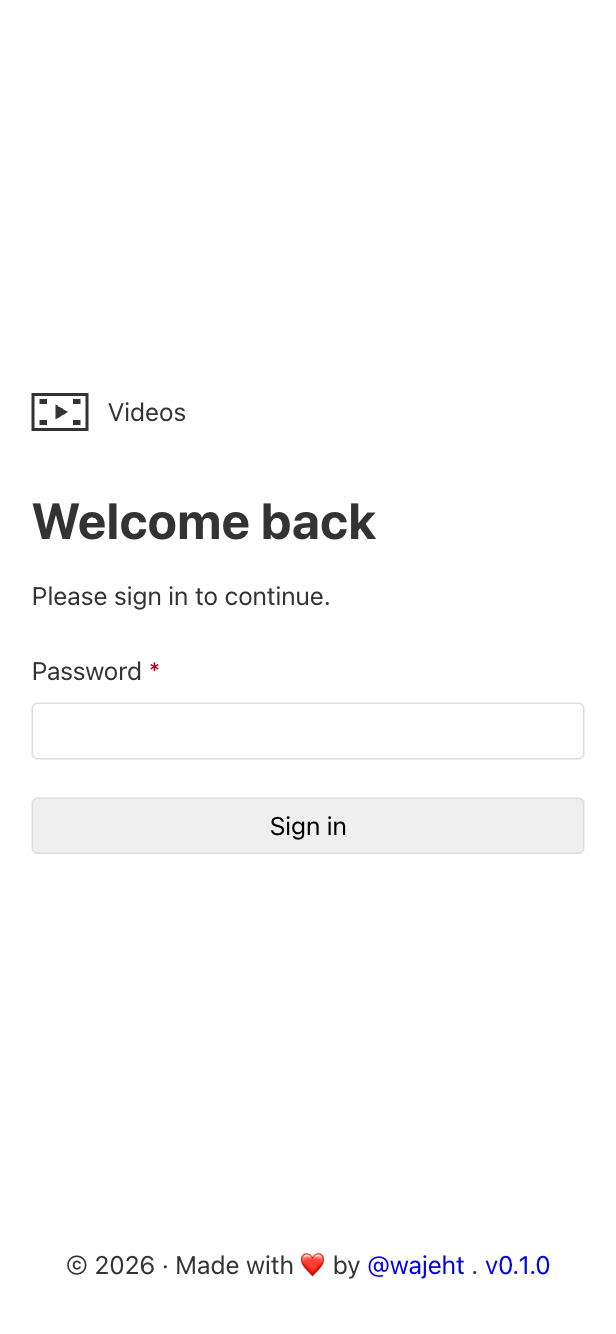
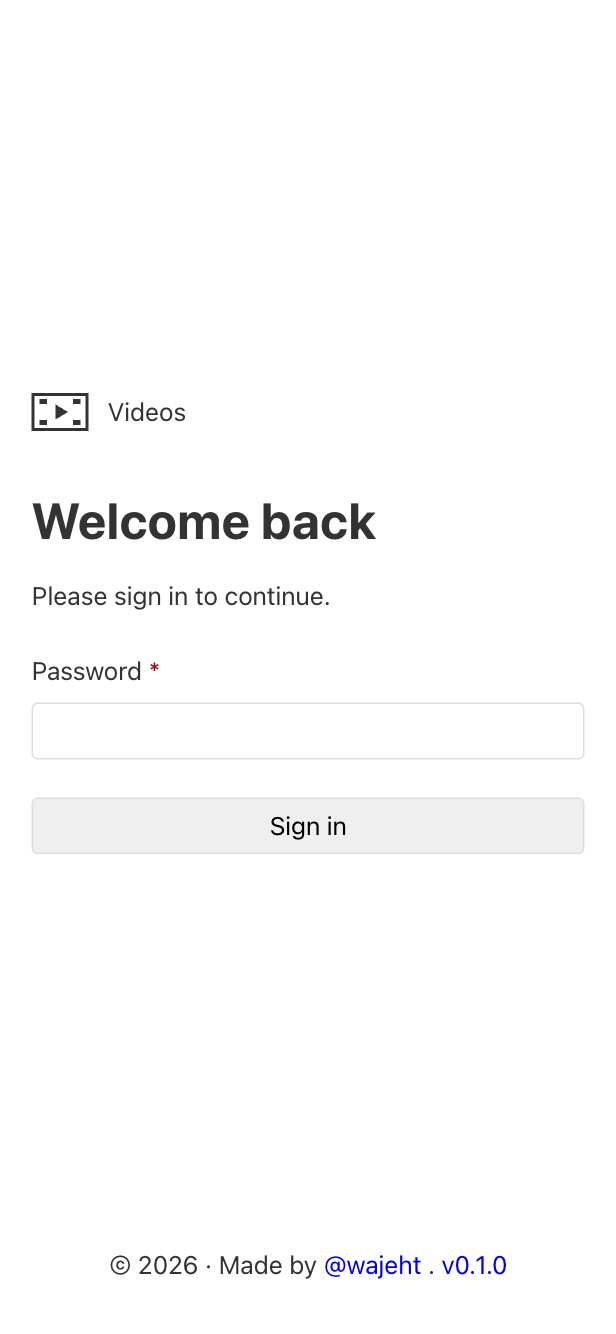
fix: simplify mobile filters and unify dialog text

Changed region(s): [[0.1542, 0.922, 0.8328, 0.9528], [0.8636, 0.922, 0.8945, 0.9528]]

diff --git a/src/vue/test/library.browser.test.ts b/src/vue/test/library.browser.test.ts
@@ -111,6 +111,10 @@ test("uses responsive library filters and a mobile drawer", async ({ page }) => 
   const drawer = page.getByRole("dialog", { name: "Authors" });
   const closeButton = drawer.getByRole("button", { name: "Close authors filters" });
   await expect(drawer).toBeVisible();
+  await expect(drawer).toHaveCSS("border-top-width", "0px");
+  await expect(drawer).toHaveCSS("color", "rgb(51, 51, 51)");
+  await expect(drawer.getByRole("group", { name: "Authors" })).toHaveCSS("border-top-width", "0px");
+  await expect(drawer.getByRole("group", { name: "Authors" })).toHaveCSS("padding-left", "0px");
   await expect(closeButton).toBeFocused();
 
   await page.keyboard.press("Escape");
@@ -140,6 +144,7 @@ test("uses responsive library filters and a mobile drawer", async ({ page }) => 
   const desktopAuthors = page.getByRole("group", { name: "Authors" });
   const desktopTags = page.getByRole("group", { name: "Tags" });
   await expect(desktopAuthors).toBeVisible();
+  await expect(desktopAuthors).toHaveCSS("border-top-width", "1px");
   await expect(page.getByRole("group", { name: "Videos per page" })).toBeVisible();
   await expect(page.locator('input[name="library-desktop-page-size"][value="24"]')).toBeChecked();
 

diff --git a/src/vue/pages/library/partials/LibraryFiltersToolbar.vue b/src/vue/pages/library/partials/LibraryFiltersToolbar.vue
@@ -172,6 +172,7 @@ function togglePanel(panel: FilterType): void {
     >
       <LibraryPlaylistFilter
         v-if="activeMobilePanel === 'view'"
+        class="m-0 border-0 p-0"
         v-model="view"
         hide-label
         name="library-mobile-view"
@@ -179,6 +180,7 @@ function togglePanel(panel: FilterType): void {
       />
       <LibraryFilterGroup
         v-else-if="activeMobilePanel === 'author'"
+        class="m-0 border-0 p-0"
         v-model="mobilePanelValue"
         all-label="No authors"
         hide-label
@@ -189,6 +191,7 @@ function togglePanel(panel: FilterType): void {
       />
       <LibraryPageSizeFilter
         v-else-if="activeMobilePanel === 'pageSize'"
+        class="m-0 border-0 p-0"
         v-model="pageSize"
         hide-label
         :disabled="pageSizeDisabled"
@@ -198,6 +201,7 @@ function togglePanel(panel: FilterType): void {
       />
       <LibraryFilterGroup
         v-else
+        class="m-0 border-0 p-0"
         v-model="mobilePanelValue"
         all-label="No tags"
         hide-label

diff --git a/src/vue/components/ui/AppDrawer.vue b/src/vue/components/ui/AppDrawer.vue
@@ -27,7 +27,7 @@ const { handleBackdrop, handleCancel } = useModalDialog(() => props.open, reques
   <Teleport to="body">
     <dialog
       ref="dialog"
-      class="fixed inset-0 m-0 h-dvh max-h-none w-full max-w-none overflow-hidden bg-transparent p-0 backdrop:bg-black/15 backdrop:backdrop-blur-[1.5px]"
+      class="fixed inset-0 m-0 h-dvh max-h-none w-full max-w-none overflow-hidden border-0 bg-transparent p-0 backdrop:bg-black/15 backdrop:backdrop-blur-[1.5px]"
       :aria-labelledby="titleId"
       @cancel="handleCancel"
       @click="handleBackdrop"

diff --git a/src/vue/components/ui/AppFooter.test.ts b/src/vue/components/ui/AppFooter.test.ts
@@ -13,6 +13,6 @@ describe("AppFooter", () => {
     expect(githubLink.text()).toBe("@wajeht");
     expect(githubLink.attributes("aria-label")).toBe("App author on GitHub (opens in a new tab)");
     expect(githubLink.attributes("rel")).toBe("noreferrer");
-    expect(wrapper.text()).toContain("© 2026 · Made with ❤ by @wajeht . v0.1.0");
+    expect(wrapper.text()).toContain("© 2026 · Made by @wajeht . v0.1.0");
   });
 });

diff --git a/src/vue/components/ui/AppFooter.vue b/src/vue/components/ui/AppFooter.vue
@@ -4,7 +4,7 @@ const appVersion = __APP_VERSION__;
 
 <template>
   <footer class="text-center">
-    © 2026 · Made with ❤ by
+    © 2026 · Made by
     <a
       class="underline-offset-4 hover:underline"
       href="https://github.com/wajeht"

diff --git a/src/vue/assets/tailwind.css b/src/vue/assets/tailwind.css
@@ -58,6 +58,10 @@
     outline-offset: 2px;
   }
 
+  dialog {
+    color: var(--color-ink);
+  }
+
   img,
   picture,
   video,
